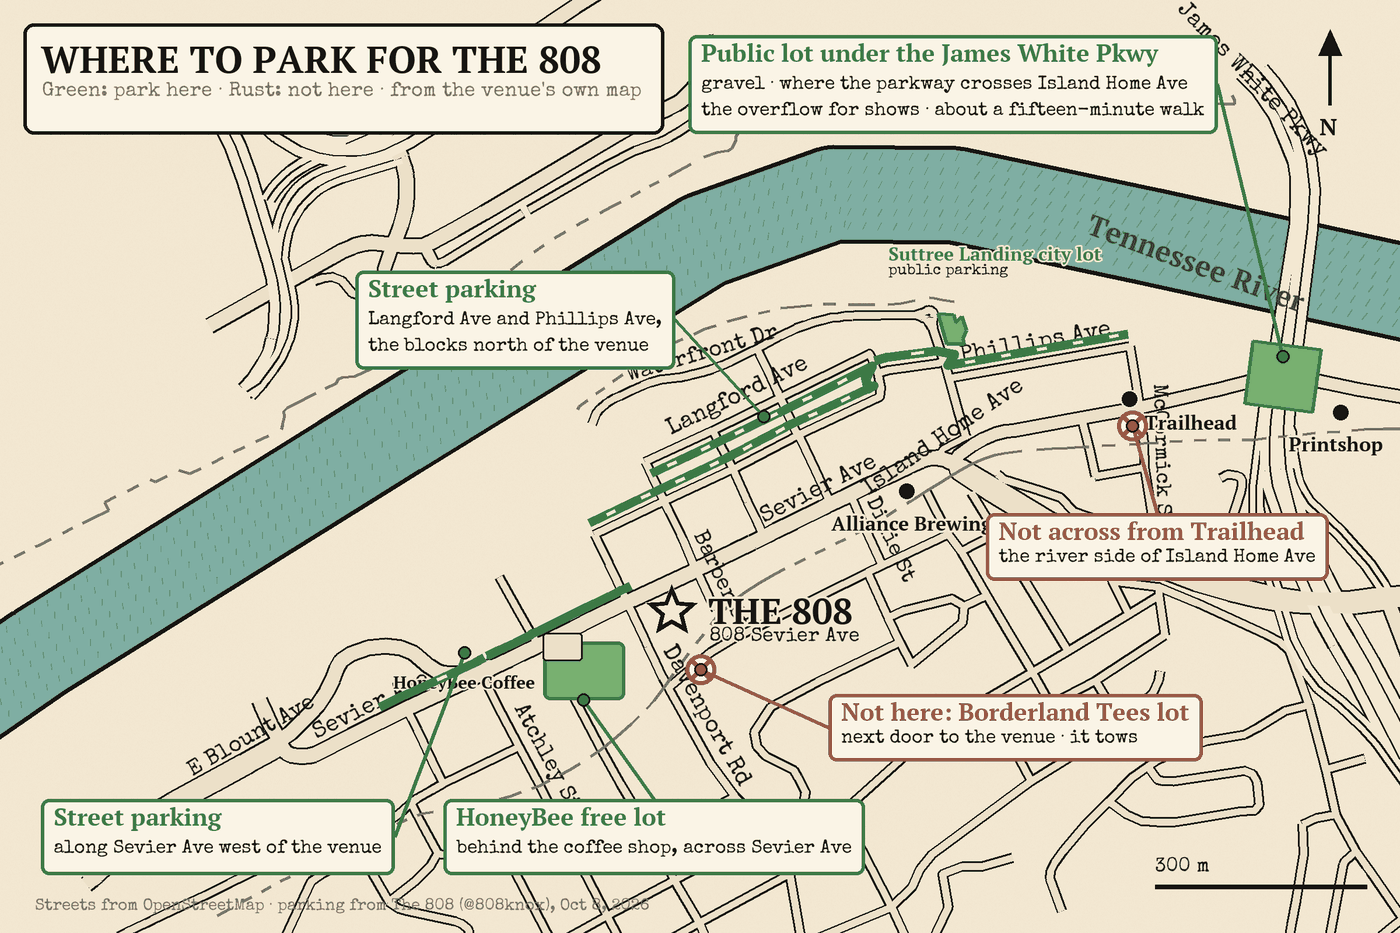
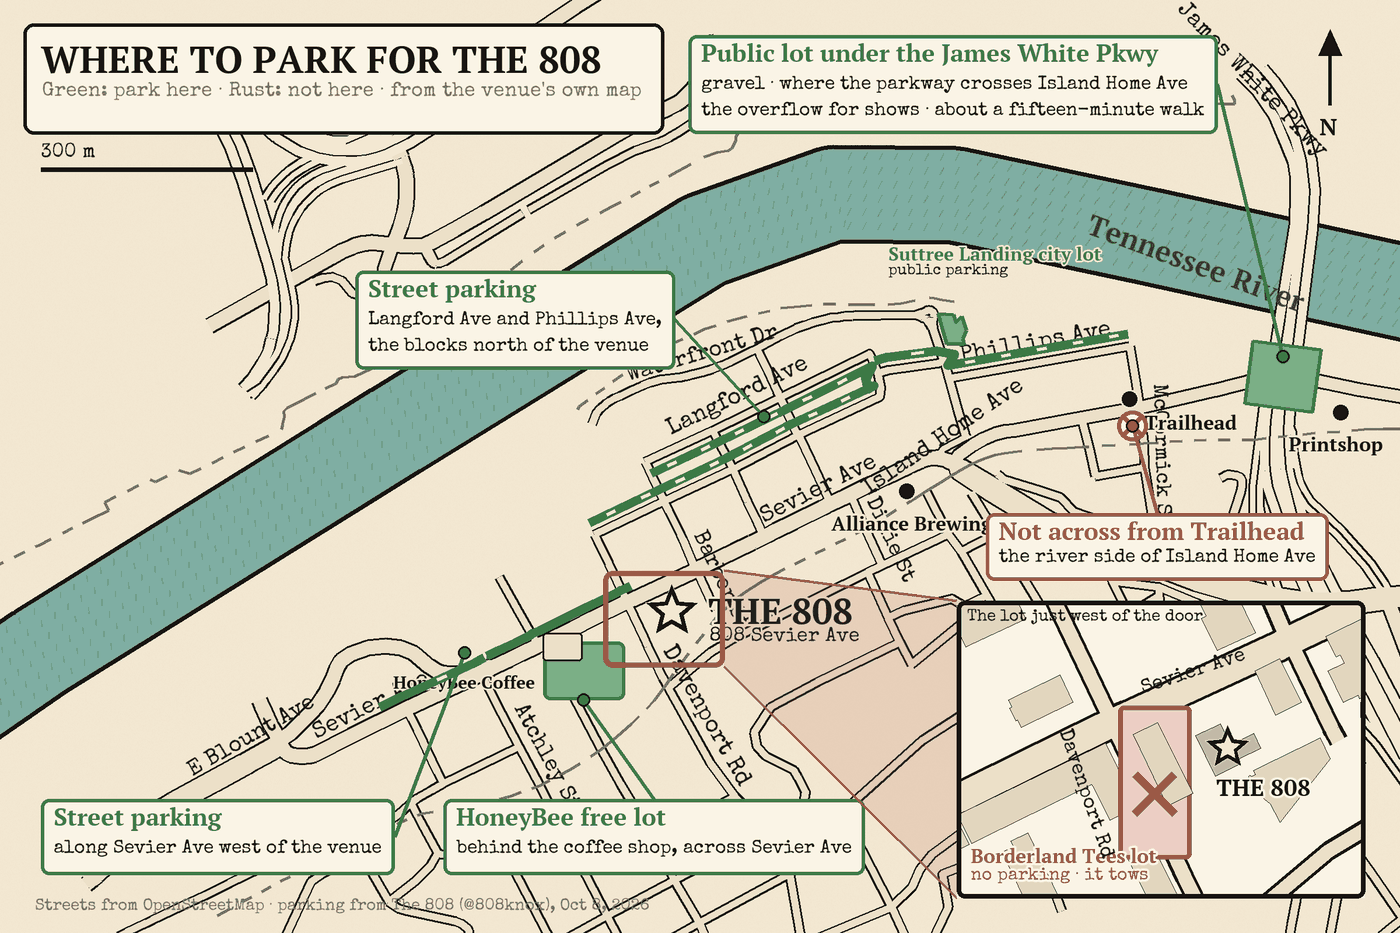
808 parking map: Borderland lot shown as a highlighted block with a to-scale inset, no X by the star (Andy)

Changed region(s): [[0.43, 0.5906, 0.9829, 0.9636], [0.0307, 0.1554, 0.1843, 0.1865], [0.6143, 0.8703, 0.645, 0.9014]]

diff --git a/scripts/parking-map-808.py b/scripts/parking-map-808.py
@@ -175,7 +175,6 @@ for name,lat,lon,dx,dy in [('Trailhead',35.96052,-83.90005,26,16),('Printshop',3
     d.text((p[0]+dx,p[1]+dy),name,font=PT(34),fill=INK,stroke_width=4,stroke_fill=CREAM)
 
 # ---------- no-park marks ----------
-bl=(v[0]+50, v[1]+100); nomark(bl)   # the Borderland Tees lot: next door, the east side of Davenport Rd (Andy)      # the Borderland Tees lot, next door (east side of Davenport, Andy)
 tr=P(35.96052,-83.90005); nx=P(35.96018,-83.90000); nomark(nx)   # across Island Home Ave from Trailhead, the river side
 
 # ---------- callouts: each leader runs clear of the others ----------
@@ -183,7 +182,6 @@ callout((cx,cy-Wh*0.6),['Public lot under the James White Pkwy','gravel · where
 callout(nx,['Not across from Trailhead','the river side of Island Home Ave'],tx=1690,ty=880,color=RUST)
 lp=P(35.9603,-83.9058); callout(lp,['Street parking','Langford Ave and Phillips Ave,','the blocks north of the venue'],tx=lp[0]-700,ty=lp[1]-250,color=GREEN)
 sp=P(35.95700,-83.9105); callout((sp[0],sp[1]-40),['Street parking','along Sevier Ave west of the venue'],tx=70,ty=1370,color=GREEN)
-callout(bl,['Not here: Borderland Tees lot','next door to the venue · it tows'],tx=1420,ty=1190,color=RUST)
 callout((hb[0],hb[1]+50),['HoneyBee free lot','behind the coffee shop, across Sevier Ave'],tx=760,ty=1370,color=GREEN)
 
 # ---------- plate, arrow, scale ----------
@@ -192,6 +190,49 @@ b1=d.textbbox((0,0),t1,font=PT(64)); b2=d.textbbox((0,0),t2,font=SE(34)); pw=max
 d.rounded_rectangle([40,40,40+pw,230],radius=18,fill=PLATE,outline=INK,width=6)
 d.text((70,58),t1,font=PT(64),fill=INK); d.text((72,140),t2,font=SE(34),fill=FADED)
 d.line([(W-120,180),(W-120,70)],fill=INK,width=6); d.polygon([(W-120,50),(W-140,95),(W-100,95)],fill=INK); d.text((W-138,190),'N',font=PT(40),fill=INK)
-d.line([(W-420,H-80),(W-420+px_per_m*300,H-80)],fill=INK,width=8); d.text((W-420,H-130),'300 m',font=SE(34),fill=INK)
+d.line([(70,290),(70+px_per_m*300,290)],fill=INK,width=8); d.text((70,245),'300 m',font=SE(34),fill=INK)
 d.text((60,H-60),'Streets from OpenStreetMap · parking from The 808 (@808knox), Oct 8, 2026',font=SE(28),fill=FADED)
+
+# ---------- the Borderland block: a rust highlight on the map, and a zoomed inset ----------
+hx0,hy0,hx1,hy1 = v[0]-118, v[1]-70, v[0]+90, v[1]+95          # the block from Davenport Rd to just past the door
+IX0,IY0,IX1,IY1 = 1640, 1030, 2340, 1540                         # the inset panel, bottom right
+ov=Image.new('RGBA',(W,H),(0,0,0,0)); od=ImageDraw.Draw(ov)
+od.polygon([(hx1,hy0),(hx1,hy1),(IX0,IY1),(IX0,IY0)],fill=(169,74,52,38))   # the zoom wedge
+img.paste(Image.alpha_composite(img.convert('RGBA'),ov).convert('RGB'))
+d=ImageDraw.Draw(img)
+d.line([(hx1,hy0),(IX0,IY0)],fill=RUST,width=5); d.line([(hx1,hy1),(IX0,IY1)],fill=RUST,width=5)
+d.rounded_rectangle([hx0,hy0,hx1,hy1],radius=16,outline=RUST,width=9)
+# inset: same OSM data, 7x closer
+ILON0,ILON1=-83.90890,-83.90640; ILAT1=35.95855
+ik=(IX1-IX0)/(ILON1-ILON0)
+def IP(lat,lon): return (IX0+(lon-ILON0)*ik, IY0+(ILAT1-lat)*ik/cosl)
+d.rounded_rectangle([IX0,IY0,IX1,IY1],radius=14,fill=PLATE,outline=INK,width=8)
+inset_img=Image.new('RGB',(IX1-IX0,IY1-IY0),PLATE); idr=ImageDraw.Draw(inset_img)
+def IPl(lat,lon): x,y=IP(lat,lon); return (x-IX0,y-IY0)
+for t,pts,_ in ways:
+    if t.get('highway') in W_BY: idr.line([IPl(*p) for p in pts],fill=INK,width=W_BY[t['highway']]*2+10,joint='curve')
+for t,pts,_ in ways:
+    if t.get('highway') in W_BY: idr.line([IPl(*p) for p in pts],fill=ROAD,width=W_BY[t['highway']]*2,joint='curve')
+for t,pts,i in ways:
+    if 'building' in t: idr.polygon([IPl(*p) for p in pts],fill=(226,214,190),outline=INK)
+# the venue's footprint, the parcel west of it, and the rest
+for t,pts,i in ways:
+    if i=='1560919141': idr.polygon([IPl(*p) for p in pts],fill=(200,190,170),outline=INK)
+bb=[IPl(*p) for p in [pts for t,pts,i in ways if i=='429395054'][0]]
+bx0=min(p[0] for p in bb)-26; by0=min(p[1] for p in bb)-30; b808=[IPl(*p) for p in [pts for t,pts,i in ways if i=='1560919141'][0]]; bx1=min(p[0] for p in b808)-8; by1=max(p[1] for p in bb)+90
+idr.rounded_rectangle([bx0,by0,bx1,by1],radius=10,fill=(236,206,196),outline=RUST,width=8)
+idr.polygon(bb,fill=(226,214,190),outline=INK)
+cxm,cym=(bx0+bx1)/2,(by0+by1)/2+20
+idr.line([(cxm-34,cym-34),(cxm+34,cym+34)],fill=RUST,width=14); idr.line([(cxm-34,cym+34),(cxm+34,cym-34)],fill=RUST,width=14)
+img.paste(inset_img,(IX0,IY0)); d=ImageDraw.Draw(img)
+d.rounded_rectangle([IX0,IY0,IX1,IY1],radius=14,outline=INK,width=8)
+# inset labels
+sv=IP(35.95782,-83.90724); star(sv,40,INK,outline=CREAM); star(sv,24,CREAM,outline=INK)
+d.text((sv[0]-20,sv[1]+40),'THE 808',font=PT(40),fill=INK,stroke_width=4,stroke_fill=PLATE)
+d.text((IX0+24,IY1-96),'Borderland Tees lot',font=PT(34),fill=RUST,stroke_width=4,stroke_fill=PLATE)
+d.text((IX0+24,IY1-54),'no parking · it tows',font=SE(30),fill=RUST,stroke_width=4,stroke_fill=PLATE)
+a,b=IP(35.9580,-83.90880),IP(35.9584,-83.90660); text_along('Sevier Ave',IP(35.95818,-83.90800),IP(35.95845,-83.90700),SE(34),offset=-40)
+text_along('Davenport Rd',IP(35.9578,-83.90836),IP(35.9573,-83.90815),SE(34),offset=44)
+d.text((IX0+18,IY0+14),'The lot just west of the door',font=SE(28),fill=INK)
+
 img.save('park_map_full.png'); img.resize((1200,800),Image.LANCZOS).save('park_map_preview.png'); print('rendered')
